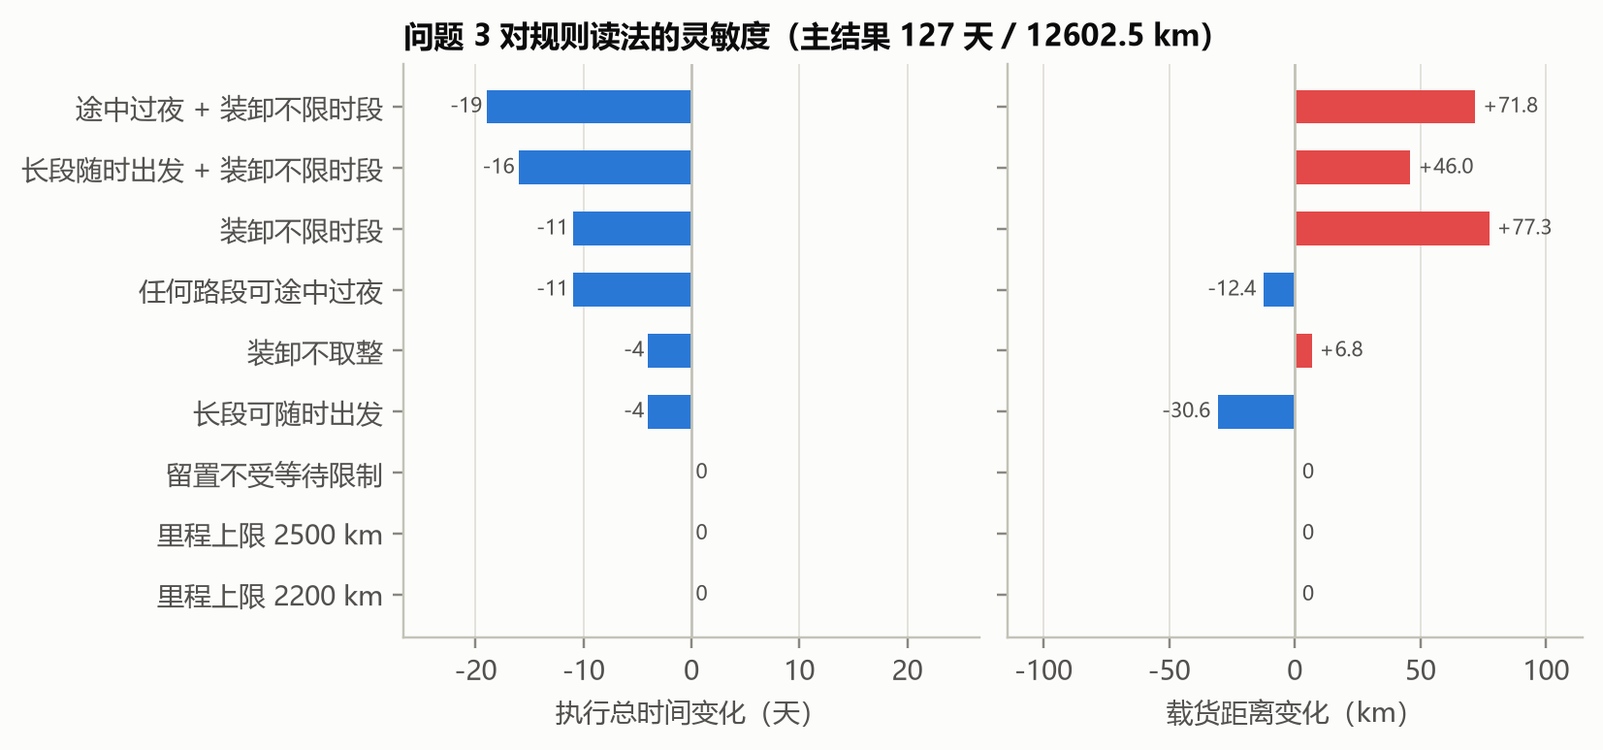
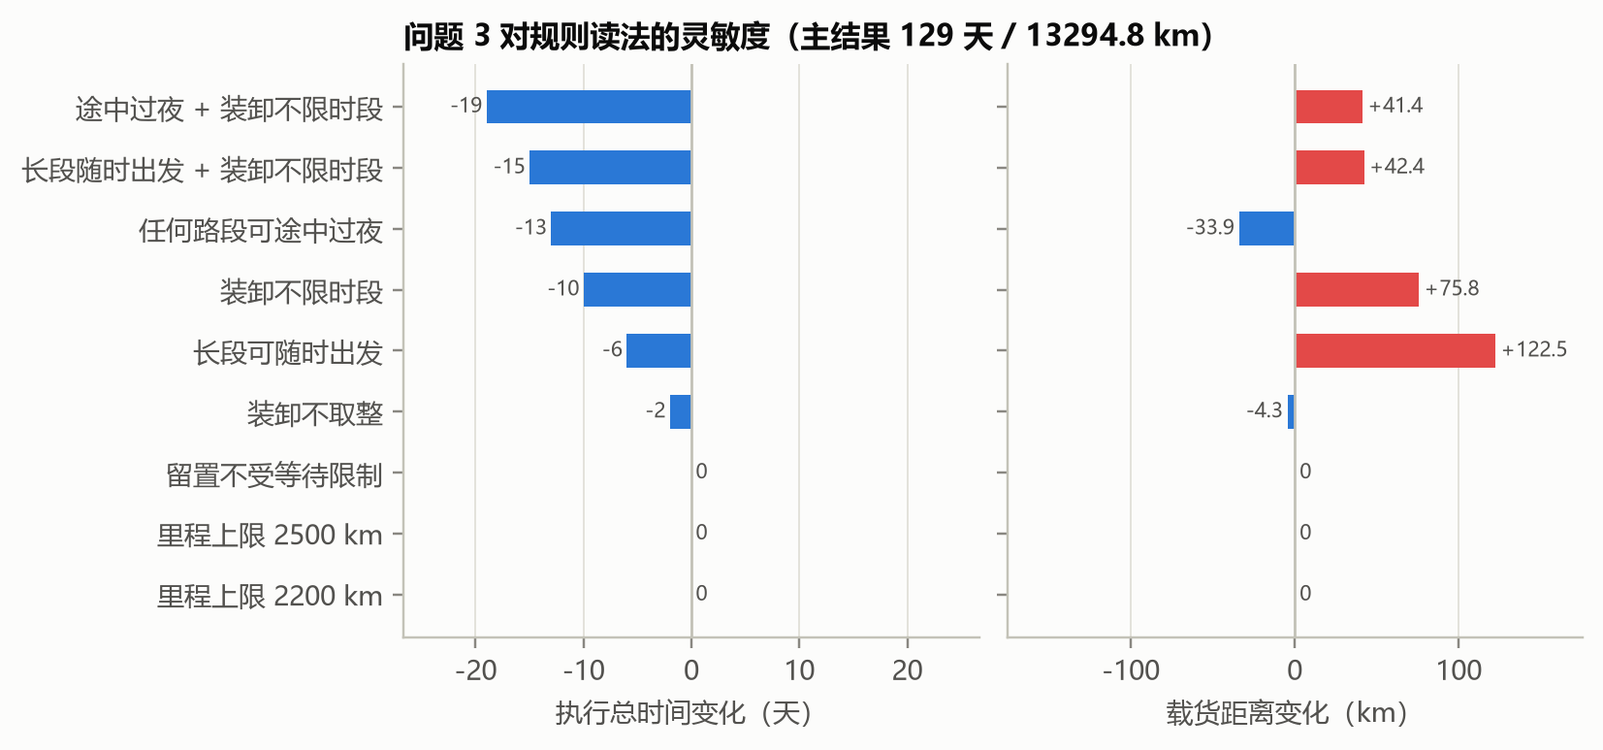
G6：正文按 spec v2.5 全面改写（摘要、第 1–3、6–8 章：129/130 天、直达规则、字面留置、问题 3 证书、灵敏度表 13 项）；修问题 4 汇总误用 R25 搜索终点的 bug 并重跑（结果不变）；数字表与图重生成

diff --git a/src/f_run_p4_reroute.py b/src/f_run_p4_reroute.py
@@ -66,11 +66,10 @@ def main():
     assert ev3["feasible"], "问题 3 台账与当前实例不一致，请先运行 f_run_p3.py"
     sc3, d3 = P.score(a3, ev3)
     sc4, d4 = P.score(a4, ev)
-    if (OUT / "summary.csv").exists() and not (OUT / "summary_R25.csv").exists():
-        shutil.copy(OUT / "summary.csv", OUT / "summary_R25.csv")
-    oldsum = pd.read_csv(OUT / "summary_R25.csv")
+    src_sum = OUT / "summary_search.csv" if (OUT / "summary_search.csv").exists() else OUT / "summary_R25.csv"
+    oldsum = pd.read_csv(src_sum)  # 改派搜索的终点（f_run_p4.py 输出；没有时用 R25 的）
     ends = oldsum[oldsum["方案"].str.startswith("搜索终点")].copy()
-    ends["方案"] = ends["方案"].str.replace("搜索终点：", "搜索终点（R25，剪枝候选）：", regex=False)
+    ends["方案"] = ends["方案"].str.replace("搜索终点：", "搜索终点（剪枝候选）：", regex=False)
     rows = []
     for nm, dd, s in (("问题3方案", d3, sc3), ("问题4方案（R25 指派，全候选重做路线）", d4, sc4)):
         rows.append(dict(方案=nm, 合成分=s, 调运总批次=dd["B"], 调运总车数=dd["N"], 出动总人数=dd["P"], 代领代交等效车数=dd["A"], 人员调动执行总时间=dd["tau"],

diff --git a/src/f_run_p4.py b/src/f_run_p4.py
@@ -90,6 +90,7 @@ def main():
                          批次仓库对=dd["pairs"], 车公里=dd["veh_km"], V=dd["V"]))
     sdf = pd.DataFrame(summ)
     sdf.to_csv(OUT / "summary.csv", index=False, encoding="utf-8-sig")
+    sdf.to_csv(OUT / "summary_search.csv", index=False, encoding="utf-8-sig")  # 搜索终点（供 f_run_p4_reroute.py 读取）
     print(sdf.T.to_string())
     # 台账与结果表
     dump3("main", inst, sol, ev)

diff --git a/paper/初稿/06_问题3.md b/paper/初稿/06_问题3.md
@@ -2,21 +2,21 @@
 
 ## 8.1 批内路线枚举
 
-固定问题 2 的指派后，每个批次要处理的货按“（装车地点，卸车地点）”分成若干货组。用深度优先搜索枚举该批次的全部合规路线。每一步选择下一站，在该站决定卸哪些货、装哪些货、是否把已装车的车留置在此。路线须满足：
+固定问题 2 的指派后，每个批次要处理的货按“（装车地点，卸车地点）”分成若干货组。用深度优先搜索枚举该批次的全部合规路线。每一步选择下一个**作业站**，在该站决定卸哪些货、装哪些货、是否把车上已装货的车全部留置在此。路线须满足：
 
 1. 从驻地空车出发、回到驻地；从自己队属仓库装车送往外面的上交货（含替别人代交的货）在到访任何外部仓库作业之前装车；接领的货最后才卸进自己的队属仓库（录 1.一.3；件 7 注 2）；
 2. 代领⑤先到 h_k 装代交货，再到 w_k 代领；
-3. 留置的车必须回到原站汇合，多站留置按相反顺序汇合（录 1.一.1(2)）；留置车从留置到车队回来重新开工之间整天闲置不超过 1 天（录 3.4“最多在目标货物仓库等待 1 天”）；
+3. 留置：在有装车作业的站，把**当前已装车的全部车辆**留下，其余空车继续前往后续仓库（件 7 注 7；正文“其他空载车辆继续前往后续货物仓库接领货物”）；留置的车必须回到原站汇合，多站留置按相反顺序汇合（录 1.一.1(2)）；留置车从留置到车队回来重新开工之间整天闲置不超过 1 天（录 3.4“最多在目标货物仓库等待 1 天”）；
 4. 行驶车队的等效装载量不超过它的车数（留置时扣减留下的车）；
-5. 只经过本批次自己的站点，同一站最多到访 2 次（假设 H10）；总里程 ≤ 2000 km。
+5. 相邻两站按附件 1 的**直达距离**行驶，路线中除汇合站和终点驻地外只出现有作业的站（件 7 注 2“依次填入经过的货物仓库直至回到驻地”），驻地只作起点和终点；同一站最多到访 2 次（假设 H10）；总里程 ≤ 2000 km。
 
-每条路线用时间引擎单独回放，得到占用天数、载货平均距离、里程。32 批共 535 条合规路线，每批 1–173 条，全部保留为候选：单独回放时被支配的路线（例如天数、载货距离相同而里程更长），在与其他批次排队时可能因到站顺序不同而错开冲突，不能事先删去。
+每条路线用时间引擎单独回放，得到占用天数、载货平均距离、里程。32 批共 247 条合规路线，每批 1–67 条，全部保留为候选：单独回放时被支配的路线（例如天数、载货距离相同而里程更长），在与其他批次排队时可能因到站顺序不同而错开冲突，不能事先删去。
 
-**命题 1（留置等价于后到）。** 对任一批次，若一条路线在站 w 装上货组 G 后把这些车留置，之后回到 w 汇合，那么把它改写为“第一次到 w 时不装 G，回到 w 时再装 G”，得到的新路线中每个货组的载货距离与原路线逐组相等。
+**命题 1（留置等价于后到）。** 对任一批次，若一条路线在站 w 把已装货的车留置，之后回到 w 汇合，那么把它改写为“第一次到 w 时不装这些货，回到 w 时再装”，得到的新路线中每个货组的载货距离与原路线逐组相等。
 
 *证明。* 留置期间 G 所在的车停在 w，不累计距离；汇合后 G 随车队从 w 走完剩余路线。改写后 G 在回到 w 时才装车，之后同样随车队走完相同的剩余路线。其他货组所在的行驶车队，走过的路径在两条路线中完全相同。因此每组的 $L_i$ 不变，$s_i$ 也不变，$\bar L$ 相等。∎
 
-命题说明留置不能降低载货距离；它的作用在时间上：第一次到站时就把货装完，回来时不必再排队装货。数值核对：32 批中有 13 批存在含留置的路线，每一批的“不含留置的最小载货距离”都正好等于“含留置的最小载货距离”。关闭留置后执行总时间多 1 天（表 8-2）。
+命题说明：**只要改写后的路线也合规**，留置就不能降低载货距离，它的作用只在时间上（第一次到站就装完，回来不必再排队）。但在“每段直达、不得途经”的规则下，改写往往不合规——第一次到 w 时若除了装 G 没有别的作业，改写后这一站就成了不作业的途经点。这时留置是唯一能让重货少跑路的办法：关闭留置后，执行总时间多 1 天，载货距离多 143.4 km（表 8-2）。
 
 ## 8.2 批间排程
 
@@ -36,7 +36,12 @@ $$Z=\sum_{i\in\{\tau,\bar L,\delta\}}\frac{f_i-l_i}{u_i-l_i},$$
 4. 多起点：开始偏离取到最小值的出发日组合只有 4 种（见 8.3），对每种固定出发日、随机取 30 组路线作起点，再做只换路线的坐标下降；
 5. 收尾：在全部（路线, 出发日）上再做一轮坐标下降，按（Z, V, 总里程）比较。
 
-**下界。** 任一批与其他批次一起回放时，到达每一站的时刻都不早于它单独回放的时刻（排队只会推迟；行驶、装卸规则对出发时刻单调），载货距离只由路线决定。因此各批孤立执行的最少天数之和、最小载货距离之和分别是 Σ τ 和 Σ L̄ 的下界（在本文的时间规则读法和“每站最多到访 2 次”的路线空间内成立；换一种时间规则读法，天数可以更少，见第十章）；把各批孤立的（天数, 载货距离, 偏离）代入 Z，再加上同单位同日 ≤ 2 批与代领④整批先后，求最小 Z 的整数规划，得到 Z 的下界。
+**下界与最优性证书。** 任一批与其他批次一起回放时，到达每一站的时刻都不早于它单独回放的时刻（排队只会推迟；行驶、装卸规则对出发时刻单调），载货距离只由路线决定。因此各批孤立执行的最少天数之和、最小载货距离之和分别是 Σ τ 和 Σ L̄ 的下界（在本文的时间规则读法和路线空间内成立；换一种时间规则读法，天数可以更少，见第十章）。
+
+在此基础上可以把“是否存在更好方案”变成有限枚举：
+1. 开始偏离每多 1 天，Z 增加 0.2；主结果 Z* 已定，偏离 ≥ 7 天的方案仅偏离一项就超过 Z*，不可能更好；
+2. 偏离 ≤ 6 天、且满足同单位同日 ≤ 2 批与代领④整批先后（用孤立天数作必要条件）的出发日组合，用整数规划的解池全部列出，共 236 种；
+3. 固定一种出发日组合后，每批的结束日被“孤立最少天数 + 允许的超额天数”框住，时间上不可能相遇、又不共用仓库和单位的批次互不影响，可以分成若干簇各自枚举；簇内只用孤立值之和剪枝（先到先服务下部分回放不能剪枝），每个组合做整簇回放与全部合规检查。
 
 ## 8.3 结果
 
@@ -44,10 +49,10 @@ $$Z=\sum_{i\in\{\tau,\bar L,\delta\}}\frac{f_i-l_i}{u_i-l_i},$$
 
 | 指标 | 结果 |
 |---|---:|
-| 人员调动执行总时间（天） | **126** |
+| 人员调动执行总时间（天） | **129** |
 | 实施开始时间偏离提报开始时间总天数（天） | **5** |
-| 调运总里程（公里） | **29719** |
-| 载货车辆总行驶距离（公里） | **12604.1** |
+| 调运总里程（公里） | **30729** |
+| 载货车辆总行驶距离（公里） | **13294.8** |
 
 <!-- P3.main.tau/delta/D/L -->
 
@@ -55,21 +60,21 @@ $$Z=\sum_{i\in\{\tau,\bar L,\delta\}}\frac{f_i-l_i}{u_i-l_i},$$
 
 | | 执行总时间（天） | 载货距离（km） | 开始偏离（天） |
 |---|---:|---:|---:|
-| 下界（各批孤立最优之和） | 124 | 12566.2 | 0（孤立）/ **5（考虑代领④，见下）** |
-| 规则基线 | 134 | 14412.9 | 5 |
-| **本文方法** | **126** | **12604.1** | **5** |
-| 相对基线 | −6.0% | −12.6% | 持平 |
-| 距下界 | +2（1.6%） | +37.8（0.30%） | 达到下界 |
+| 下界（各批孤立最优之和） | 126 | 13257.8 | 0（孤立）/ **5（考虑代领④，见下）** |
+| 规则基线 | 134 | 14445.7 | 5 |
+| **本文方法** | **129** | **13294.8** | **5** |
+| 相对基线 | −3.7% | −8.0% | 持平 |
+| 距下界 | +3（2.4%） | +37.0（0.28%） | 达到下界 |
 
 <!-- P3.lb.* P3.base.* P3.main.* -->
 
-32 批中 26 批同时达到了各自的孤立最少天数和最小载货距离。剩下的差距有三个来源：批 7 多用 1 天换来载货距离少 683.7 km（这是折衷，不是损失）；批 27 在 WF 排队，多 1 天；载货距离共多 37.8 km，其中批 13 为满足代领④的先后走 6 天的路线，多 33.5 km；批 1、30、32 为少用天数选了载货距离略长的路线，共多 4.3 km。
+32 批中 25 批同时达到了各自的孤立最少天数和最小载货距离。距下界的 3 天来自：批 7 多用 1 天换来载货距离少 623.7 km（折衷，不是损失）；批 16 在自己的队属仓库 WP、批 27 在 WF 排队（所有仓库先到先服务），各多 1 天。载货距离共多 37.0 km，其中批 13 为满足代领④的先后改走 6 天的路线，多 30.1 km；批 1、30、32 为少用天数选了载货距离略长的路线，共多 6.9 km。
 
-合成目标的下界为 Z ≥ 1.120，本文方法 Z = 1.220，相差 0.1，约合 1 天执行总时间。进一步按开始偏离分情形枚举可知：比本文更好的方案若存在，开始偏离必须恰为 5 天、出发日只能是 4 种组合之一，且执行总时间 ≤ 125 天，或为 126 天而载货距离更短。剩余情形每种约 5.8 亿个路线组合，没有穷举完，所以本文不声称最优。【单方结果，待第二方复核】
+**本文方案是最优的。** 按上面的证书，偏离 5 天的出发日组合有 4 种，各枚举约 90 万个路线组合；偏离 6 天的 232 种全部被孤立值之和排除。没有一个可行方案的合成目标低于本文方案（Z* = 1.406）；有 2 种出发日组合能达到同一 Z*，其 V 与本文方案相同，【并列核查：总里程是否有更短的，待补】。这一结论在以下前提下成立：同一站最多到访 2 次（H10）；同一批次中装卸地点相同的货一起处理；单调性与分簇独立性（后者经 5000 组随机方案检验，分簇回放与整体回放的逐站时刻完全一致）。【单方结果，待第二方复核】
 
-**开始偏离 5 天是下界。** 唯一一笔不可避免的偏离来自代领④：U6 的批 13（提报 4 月 14 日起）替 U4 代领一块货，暂存在 WP，由 U4 的批 25（提报 4 月 15–18 日）领回。批 13 要到 WA、WG 两个仓库，装卸至少 58 台次（出发时在 WP 装送交货 ≥ 10、WA 卸装 ≥ 28、WG 装 ≥ 1、返程在 WP 卸 ≥ 19）：最短闭合路线 1067 km，至少行驶 17.07 小时；装卸至少 23.2 小时；合计 40.27 小时，超过 5 个工作日的 40 小时，所以至少占 6 个自然日。设两批出发日为 x、y，整批先后要求 y − x ≥ 6，而两个提报开始日只差 1 天，故 $|x-14|+|y-15|\ge 5$。本文方案取 x = 10、y = 16，正好取等。同一论证说明：**在问题 2 的指派下，如果所有批次都不早于提报开始日出发，问题 3 没有可行方案**（问题 4 改变了这笔代领④的去向，偏离可以为 0，见 9.3 节）（批 13 最早 4 月 19 日回驻地，批 25 最晚 4 月 18 日必须出发）。这一论证由第二方独立给出。
+**开始偏离 5 天是下界。** 唯一一笔不可避免的偏离来自代领④：U6 的批 13（提报 4 月 14 日起）替 U4 代领一块货，暂存在 WP，由 U4 的批 25（提报 4 月 15–18 日）领回。批 13 要到 WA、WG 两个仓库，装卸至少 58 台次（出发时在 WP 装送交货 ≥ 10、WA 卸装 ≥ 28、WG 装 ≥ 1、返程在 WP 卸 ≥ 19）：最短闭合路线 1182 km，至少行驶 18.91 小时；装卸至少 23.2 小时；合计 42.11 小时，超过 5 个工作日的 40 小时，所以至少占 6 个自然日。设两批出发日为 x、y，整批先后要求 y − x ≥ 6，而两个提报开始日只差 1 天，故 $|x-14|+|y-15|\ge 5$。本文方案取 x = 10、y = 16，正好取等。同一论证说明：**在问题 2 的指派下，如果所有批次都不早于提报开始日出发，问题 3 没有可行方案**（问题 4 改变了这笔代领④的去向，偏离可以为 0，见 9.3 节）（批 13 最早 4 月 19 日回驻地，批 25 最晚 4 月 18 日必须出发）。这一论证由第二方独立给出。
 
-**路线特征。** 18 个批次的路线重复经过了本批次的站点（途经），1 个批次使用了留置。到达外部仓库共 62 次，批次-仓库对 51 个。
+**路线特征。** 没有途经；2 个批次使用了留置（批 8、46）。到达外部仓库共 61 次，批次-仓库对 51 个。
 
 ![图 8-1 问题 3 甘特图](../figs/图8-1_问题3甘特图.png)
 
@@ -85,26 +90,25 @@ $$Z=\sum_{i\in\{\tau,\bar L,\delta\}}\frac{f_i-l_i}{u_i-l_i},$$
 
 | 方案 | 执行总时间 | 载货距离 | 开始偏离 |
 |---|---:|---:|---:|
-| 本文方法 | 127 | 12602.5 | 5 |
-| 关闭留置 | 128 | 12604.1 | 5 |
-| 关闭途经（每段只走直达） | 130 | 13293.2 | 5 |
-| 留置、途经都关闭 | 133 | 13294.8 | 5 |
+| 本文方法 | 129 | 13294.8 | 5 |
+| 关闭留置 | 130 | 13438.2 | 5 |
+| 允许途经（借道驻地等，见第十章） | 126 | 12604.1 | 5 |
 | 不允许提前出发 | 不可行 | — | — |
 
 <!-- X.ablation.* -->
 
-途经贡献最大：关闭后载货距离多 690.7 km（5.5%）、天数多 3 天，原因是距离矩阵不满足三角不等式。留置只影响天数（多 1 天），与命题 1 一致。提前出发是必需的。
+留置在直达规则下同时节省 1 天和 143.4 km 载货距离（见命题 1 后的说明）。若允许途经（借道驻地），执行总时间可少 3 天、载货距离少 690.7 km，原因是距离矩阵在驻地附近不满足三角不等式（如 WP→WA 直达 550 km，经 U6 为 15 + 505 km）；本文按件 7 注 2 不采用，作为对照报出。提前出发是必需的。
 
 **表 8-3 合成方式**
 
 | 合成方式 | 执行总时间 | 载货距离 | 开始偏离 |
 |---|---:|---:|---:|
-| 等权和（主结果） | 127 | 12602.5 | 5 |
-| 先比最差的一项 | 130 | 12602.5 | 5 |
-| 权重 0.4 / 0.4 / 0.2 | 126 | 12602.5 | 8 |
+| 等权和（主结果） | 129 | 13294.8 | 5 |
+| 先比最差的一项 | 129 | 13294.8 | 5 |
+| 权重 0.4 / 0.4 / 0.2 | 127 | 13294.8 | 7 |
 
 载货距离对合成方式不敏感；天数与偏离之间存在此消彼长。
 
 ## 8.5 小结
 
-问题 3 在固定指派下把执行总时间压到 126 天、载货距离压到 12604.1 km，距各自下界分别为 1.6% 和 0.30%（下界在“每站最多到访 2 次”的路线空间内成立）；开始偏离 5 天已达到下界。本文不把 126 天称为最优：合成目标距下界 0.1（约 1 天），且已把可能更好的方案限定在 4 种出发日组合之内。
+问题 3 在固定指派下把执行总时间压到 129 天、载货距离压到 13294.8 km，距各自的孤立下界 3 天和 37.0 km；开始偏离 5 天已达到下界。通过按偏离分情形、固定出发日后分簇穷举，证明了该方案在本文的路线空间内按合成目标最优。

diff --git a/paper/初稿/08_灵敏度与评价.md b/paper/初稿/08_灵敏度与评价.md
@@ -1,26 +1,29 @@
 # 十、灵敏度分析
 
-对 11 处有解释空间的规则，各换一种读法重算，其余不变。问题 3 的数字都在问题 2 的同一指派下用同一算法得到。
+对 13 处有解释空间的规则，各换一种读法重算，其余不变。问题 3 的数字都在问题 2 的同一指派下用同一算法得到。
 
 **表 10-1 口径灵敏度**
 
 | # | 规则（主读法 → 备选读法） | 影响 |
 |---|---|---|
 | 1 | U9 条款：凡能交给 U6 的都交 → U9 保留的块不存在交给 U6 的可能即可 | 问题 2：32 → 31 批 |
-| 2 | 问题 2 不看时间 → 要求代办双方的提报时段相容 | 问题 2：32 → 37 批，代办量 10.868 → 6.414；该指派下问题 3 为 146 天 / 14534.4 km / 偏离 0 |
-| 3 | 保障车 T ≥ 21 取 2 台 → T ≥ 26 取 2 台 | 问题 2：474 → 471 辆、1212 → 1206 人；问题 4：473 → 470 辆、1210 → 1204 人 |
+| 2 | 问题 2 不看时间 → 要求代办双方的提报时段相容 | 问题 2：32 → 37 批，代办量 10.868 → 6.414；该指派下问题 3 为 148 天 / 15228.8 km / 偏离 0 |
+| 3 | 保障车 T ≥ 21 取 2 台 → T ≥ 26 取 2 台 | 问题 2：474 → 471 辆、1212 → 1206 人；问题 4：474 → 471 辆、1214 → 1208 人 |
 | 4 | 单批里程 ≤ 2000 km → ≤ 2200 / 2500 km | 不变（主方案里程约束不起作用） |
 | 5 | 150 km 阈值 → 149 km | 问题 2 不变 |
-| 6 | > 500 km 的路段只在 8:00 出发 → 随时出发、途中过夜 | 问题 3：123 天 / 12571.9 km / 偏离 6 |
-| 7 | 当天到不了下一站就次日出发 → 任何路段都可随时出发、途中过夜 | 问题 3：116 天 / 12590.1 km / 偏离 8 |
-| 8 | 装卸只在 8:00–16:00 → 可连续做到夜间（录 3.9“不考虑仓库的工作时段”） | 问题 3：116 天 / 12679.9 km / 偏离 6 |
-| 9 | 装、卸分别向上取整 → 不取整 | 问题 3：123 天 / 12609.3 km / 偏离 6 |
+| 6 | > 500 km 的路段只在 8:00 出发 → 随时出发、途中过夜 | 问题 3：123 天 / 13417.3 km / 偏离 5 |
+| 7 | 当天到不了下一站就次日出发 → 任何路段都可随时出发、途中过夜 | 问题 3：116 天 / 13260.9 km / 偏离 8 |
+| 8 | 装卸只在 8:00–16:00 → 可连续做到夜间（录 3.9“不考虑仓库的工作时段”） | 问题 3：119 天 / 13370.6 km / 偏离 5 |
+| 9 | 装、卸分别向上取整 → 不取整 | 问题 3：127 天 / 13290.5 km / 偏离 5 |
 | 10 | 留置的车也受“等待 ≤ 1 天”限制 → 不受限 | 不变 |
-| 11 | 可重复经过本批次站点 → 每个外部仓库只到访一次 | 问题 2 的指派不可执行：批 18、25 无合规路线。批 18 用了代领⑤，要先在 h_k 装代交货、代领后再回 h_k 卸货；批 25 在 WP 先装代交货去 WE（代交③），回来后在 WP 卸代领货（代领②）。两批都必须两次到访同一外部仓库 |
+| 11 | 同一作业站可到访 2 次 → 每个外部仓库只到访一次 | 问题 2 的指派不可执行：批 18、25 无合规路线。批 18 用了代领⑤，要先在 h_k 装代交货、代领后再回 h_k 卸货；批 25 在 WP 先装代交货去 WE（代交③），回来后在 WP 卸代领货（代领②）。两批都必须两次到访同一外部仓库 |
 
-<!-- X.rules.* ；sens.csv -->
+| 12 | 每段按直达距离、不得途经 → 可借道驻地等本批次站点（裁决 X1 的反面） | 问题 3：126 天 / 12604.1 km / 偏离 5 |
+| 13 | 代领代交只需满足所列情形之一 → 每笔另须“就近”（裁决 D2 的反面） | 问题 2：32 → 34 批，474 → 477 辆、1212 → 1224 人 |
 
-另外两种组合：读法 6 + 8 为 111 天 / 12648.6 km，读法 7 + 8 为 108 天 / 12674.3 km。代领③禁用（假设 H11 的反面）时问题 2 为 33 批。
+<!-- X.rules.* ；sens.csv；p3_ablation.csv（借道）；X.d2b.* -->
+
+另外两种组合：读法 6 + 8 为 114 天 / 13337.1 km，读法 7 + 8 为 110 天 / 13336.2 km。代领③禁用（假设 H11 的反面）时问题 2 为 33 批。
 
 ![图 10-1 灵敏度](../figs/图10-1_灵敏度.png)
 
@@ -28,10 +31,10 @@
 
 **结论。**
 
-1. **载货距离对时间规则稳健**：各种时间读法下在 12572–12680 km 之间，与主结果相差不到 0.9%。
-2. **执行总时间不稳健**：108–127 天，取决于“当天到不了下一站能否先走一段”和“装卸能否做到夜间”。本文按录 3.2、3.4 的字面（装卸计入每天 8 小时；到不了就次日机动）取 127 天。
+1. **载货距离对时间规则稳健**：各种时间读法下在 13261–13417 km 之间，与主结果相差不到 1%。
+2. **执行总时间不稳健**：110–129 天，取决于“当天到不了下一站能否先走一段”和“装卸能否做到夜间”。本文按录 3.2、3.4 的字面（装卸计入每天 8 小时；到不了就次日机动）取 129 天。是否允许借道驻地也影响 3 天、690.7 km（读法 12）。
 3. **批次数只对 U9 条款、代领④和时段相容的读法敏感**，各影响 1–5 批。
-4. **问题 4 优于问题 3 的结论大体稳健**：在“任何路段可途中过夜”的读法下，问题 4 为 113 天 / 12617.4 km / 偏离 4，问题 3 为 116 天 / 12590.1 km / 偏离 8，天数、偏离、失衡度、仓库对仍更好，但载货距离反而多 27 km。
+4. **问题 4 与问题 3 的取舍随读法变化**：在“任何路段可途中过夜”的读法下，问题 4 为 114 天 / 13295.7 km / 偏离 4 / 仓库对 44，问题 3 为 116 天 / 13260.9 km / 偏离 8 / 仓库对 51，问题 4 的天数、偏离、失衡度、仓库对更好，载货距离多 34.8 km；主读法下则是天数多 1 天、载货距离少 383.7 km。
 
 # 十一、模型检验与评价
 
@@ -43,21 +46,21 @@
 | 解析守恒 | 附件 2、3 货物总量相等（5,971,074），逐货号相等；附件 4 总量 10,727,184 |
 | 时间引擎 | 5 个手算例与第二方算例全部一致 |
 | 约束残差 | 附件 6、7、8 在独立检查器下违例 0 条，附表 2–4 的指标逐项复现 |
-| 检查器自检 | 6 种篡改（时刻、货量、整批推迟、代领改自领、无关节点、留置超时）全部被检出 |
-| 第二方复算 | 问题 2：独立的 CP-SAT 模型得到相同的四级目标与 90 块指派；问题 3、4：第二方独立实现逐站回放，582 个到离时刻全部吻合，S1–S16、R1–R8 逐条通过，并独立证明了问题 3 开始偏离的下界；问题 1：第二方独立复现了 16 笔转移的情形、越窗批数、回放天数和表列天数不足的批数；补充实验中“禁用代领③为 33 批”“不允许提前出发不可行”也由第二方独立确认 |
-| 命题核对 | 命题 1 在 13 个有留置路线的批次上逐一成立 |
+| 检查器自检 | 10 种篡改（时刻、货量、整批推迟、代领改自领、无关节点、留置超时、删去暂存备注、领回量不符、代交改记他人、部分留置）全部按预期检出或不误报 |
+| 第二方复算 | 问题 2：独立的 CP-SAT 模型得到相同的四级目标与 90 块指派；问题 3、4：第二方独立实现逐站回放，对规则修订前的版本（允许途经）580 个到离时刻全部吻合、S1–S16 与 R1–R8 逐条通过，并独立证明了问题 3 开始偏离的下界【现行版本待第二方复核】；问题 1：第二方独立复现了 16 笔转移的情形、越窗批数、回放天数和表列天数不足的批数；补充实验中“禁用代领③为 33 批”“不允许提前出发不可行”也由第二方独立确认 |
+| 最优性证书 | 问题 3：偏离 ≤ 6 天的 236 种出发日组合全部枚举（偏离 5 天的 4 种各约 90 万个路线组合），无合成目标更低的可行方案 |
 
 ## 11.2 优点
 
 1. 三问共用同一套判定函数和时间引擎，指标口径一致，四问的数字可以直接比较。
-2. 问题 2 精确求解并由第二方独立确认；问题 3 给出下界，开始偏离达到下界，执行总时间和载货距离距下界分别为 1.6% 和 0.30%，并把可能更好的方案限定在 4 种出发日组合之内（未证明最优）。
+2. 问题 2 精确求解并由第二方独立确认；问题 3 用“按偏离分情形 + 固定出发日分簇穷举”证明了按合成目标最优（在本文的路线空间内）。
 3. 规则先落成可执行的判定，再由不调用求解代码的检查器逐条复核，杜绝“模型目标值好看、方案不可执行”。
 4. 对 11 处口径给出了备选读法下的结果，结论的适用范围清楚。
 
 ## 11.3 局限
 
-1. 问题 3、4 是局部搜索的结果，不是证明最优；问题 4 的终点对随机顺序敏感。
-2. 执行总时间依赖对录 3.4 的读法，其他读法下可少至 108 天。
+1. 问题 4 是局部搜索的结果，不是证明最优，终点对随机顺序敏感；问题 3 的最优性依赖“同一站最多到访 2 次”“同一批装卸地点相同的货一起处理”两条路线空间假设。
+2. 执行总时间依赖对录 3.4 的读法，其他读法下可少至 110 天。
 3. 代领③中货主自取的行程不计入任何批次；问题 4 用得更多，自取 5.013 等效车、往返 772 km，这部分成本在附表中看不到。
 4. 路线枚举限制同一站最多到访 2 次；更多次的到访没有考虑。
 

diff --git a/paper/初稿/00_摘要.md b/paper/初稿/00_摘要.md
@@ -13,10 +13,10 @@
 
 **针对问题 2**，建立**需求块指派的四级字典序整数规划**（U9 优先交 U6、批次最少、代领代交量最少、提报时段冲突最少）。**Y2 的 46 个批次最少可统筹为 32 批**（Gurobi，gap = 0；第二方独立模型得到相同的四级目标值），调运总车数 474 辆、出动总人数 1212 人、代领代交货物总量 10.868 等效车。禁用“暂存后由货主领回”时最少为 33 批；按 U9 条款的字面读法为 31 批。
 
-**针对问题 3**，建立**批内路线枚举与批间事件回放排程模型**：对每批枚举满足流程规则的全部路线（含重复到访与留置），以坐标下降、成对邻域和多起点搜索选择路线与出发日。**人员调动执行总时间 126 天，开始偏离 5 天，调运总里程 29719 km，载货车辆总行驶距离 12604.1 km**；较“最短里程路线、按提报日出发”的规则基线，执行总时间减少 6.0%、载货距离减少 12.6%，距各自的下界 2 天和 37.8 km。我们证明了**开始偏离 5 天是该指派下的下界**，且在该指派下不提前出发则无可行方案；证明了“留置等待在载货距离上等价于把该仓库排到后面”，留置的收益只在时间上（关闭后多 1 天）。
+**针对问题 3**，建立**批内路线枚举与批间事件回放排程模型**：对每批枚举满足流程规则的全部路线（每段按直达距离，含重复到访与留置），以坐标下降、成对邻域和多起点搜索选择路线与出发日。**人员调动执行总时间 129 天，开始偏离 5 天，调运总里程 30729 km，载货车辆总行驶距离 13294.8 km**；较“最短里程路线、按提报日出发”的规则基线，执行总时间减少 3.7%、载货距离减少 8.0%。我们证明了**开始偏离 5 天是该指派下的下界**，且在该指派下不提前出发则无可行方案；进而按开始偏离分情形、固定出发日后分簇穷举（236 种出发日组合），**证明了该方案按合成目标最优**。留置在直达规则下同时节省 1 天和 143.4 km 载货距离。
 
-**针对问题 4**，建立**指派与排程联合的单块改派邻域搜索模型**，定义失衡度 E（各单位帮出量与受助量之差的绝对值之和与两倍代领代交总量之比）。在与问题 3 相同的 32 批下，**批次-仓库对由 51 降至 46，失衡度由 0.651 降至 0.408，载货距离减少 133.2 km，开始偏离由 5 天降为 0**，代价是执行总时间多 1 天（127 天）、代领代交量由 10.868 增至 15.515 等效车，被代方提报时段与实际出发日不相容的代领代交对由 11 对增至 17 对<!-- P4.p3.V P4.main.V -->。多保留 1 批或 2 批只能进一步降低失衡度，其余指标全部变差。
+**针对问题 4**，建立**指派与排程联合的单块改派邻域搜索模型**，定义失衡度 E（各单位帮出量与受助量之差的绝对值之和与两倍代领代交总量之比）。在与问题 3 相同的 32 批下，**批次-仓库对由 51 降至 48，失衡度由 0.651 降至 0.392，载货距离减少 383.7 km，开始偏离由 5 天降为 0**，代价是执行总时间多 1 天（130 天）、代领代交量由 10.868 增至 21.179 等效车，被代方提报时段与实际出发日不相容的代领代交对由 11 对增至 20 对<!-- P4.p3.V P4.main.V -->。保留 34 批可把失衡度进一步降到 0.266，其余指标变差。
 
-全部方案经独立检查器核验约束违例为 0，主要数字经第二方独立复算。对 11 处有解释空间的规则给出了另一种读法下的结果：载货距离对时间规则的读法稳健（相差 < 0.9%），执行总时间不稳健（108–127 天）。
+全部方案经独立检查器核验约束违例为 0，主要数字经第二方独立复算。对 13 处有解释空间的规则给出了另一种读法下的结果：载货距离对时间规则的读法稳健（相差 < 1%），执行总时间不稳健（110–129 天）；若允许借道驻地，问题 3 可少 3 天。
 
 **关键词**：需求块；字典序整数规划；路线枚举；事件回放；邻域搜索；失衡度

diff --git a/paper/初稿/03_共用模块.md b/paper/初稿/03_共用模块.md
@@ -53,8 +53,8 @@ $$\bar L_\beta=\frac{\sum_i s_i L_i}{\sum_i s_i}.$$
 检查器只读结果 xlsx 和原始附件 1、4、5，不调用任何求解代码，独立实现了行驶、装卸、排队、容量规则，逐条核验：
 
 - **时刻与资源**：每站到达和离开时刻（容差 1 分钟）、先到先服务、仓库日容量、等待 ≤ 1 天、时间窗、同单位同日批次数；
-- **装载与流程**：行驶车队装载量、运力与“增车 ≤ 3、≤ 30 台”、2000 km、目标仓库数；送交货先装、接领货最后入库，留置逆序汇合，不经过无关节点；
+- **装载与流程**：行驶车队装载量、运力与“增车 ≤ 3、≤ 30 台”、2000 km、目标仓库数；送交货先装、接领货最后入库，留置时全部已装车辆留下、逆序汇合，不途经不作业的站；
 - **代领代交**：专程到访的 150 km、代领⑤先装代交货后代领、代领④整批先后、U9 只由 U6 代办；
 - **守恒**：每个（货主, 货物）在各节点的净流量与附件 4 一致。
 
-检查器还重算附表 2–4 的全部指标，与求解端逐项比对。对问题 3 的结果表做篡改自检（到达时刻 +10 分钟、货量 +1、整批推迟 30 天、代领改自领、途经站改成无关节点、留置汇合推迟到第三天 16:00），当前检查器全部检出（`tests/f_test_checker.py`）。
+检查器还重算附表 2–4 的全部指标，与求解端逐项比对。对问题 3 的结果表做 10 种篡改自检（到达时刻 +10 分钟、货量 +1、整批推迟 30 天、代领改自领、站点改成无关节点、留置汇合推迟到第三天 16:00、删去暂存备注、领回量不符、代交改记他人、部分留置），当前检查器全部按预期检出或不误报（`tests/f_test_checker.py`）。

diff --git a/paper/初稿/02_假设与符号.md b/paper/初稿/02_假设与符号.md
@@ -13,7 +13,7 @@
 | H7★ | 一段路当天到不了下一站就次日 8:00 出发；超过 500 km 的路段只在 8:00 出发、途中过夜 | 录 3.4“剩余工作时间无法到达下一任务地点……则次日进行机动”，并且实际中宜在定点场所休息；超过 500 km 的路段当天必然到不了，按同一句字面次日 8:00 出发 |
 | H8★ | 一站内装、卸分别按等效车数向上取整后相加计时 | 原文“非满载车辆按满载车辆计算”，未规定取整层级 |
 | H9★ | 留置的车也受“最多等待 1 天”限制 | 原文称“留置等待” |
-| H10★ | 路线可以重复经过本批次自己的站点，不经过无关节点 | 距离取直达值且不满足三角不等式；代领⑤原文就要求“增加访问 Uy 的队属货物仓库” |
+| H10★ | 路线由作业站依次组成，相邻两站取直达距离，不途经不作业的站；同一作业站至多到访 2 次 | 件 7 注 2“依次填入经过的货物仓库直至回到驻地”；代领⑤原文就要求“增加访问 Uy 的队属货物仓库”，故须允许重复到访 |
 | H11 | 代领③中货主自取的行程不计入任何批次 | 原文只写“可进行代领”，未说明货主如何取回；第九章报告自取的货量与往返里程 |
 | H12 | 代领④的“之后”取整批先后：货主批次的出发日晚于暂存批次回到驻地的日期 | “实施时间”在术语 11 中定义为时间段；按最严格的读法排出的方案在较宽读法下同样合规 |
 | H13 | 执行单位在自己可用的队属仓库作业不占该仓库的日容量，但仍按先到先服务排队 | 日容量（录 3.9）针对“处理接领（交）货物的需求单位”；服务规则（录 3.10）对一切货物仓库适用 |

diff --git a/paper/初稿/01_问题重述与分析.md b/paper/初稿/01_问题重述与分析.md
@@ -14,7 +14,7 @@
 | 附件 5 | 各单位车型装载单品种货物的最大数量 | 245 种货物 |
 | 附表 1 | 各单位可使用的队属仓库 | 7 个队属仓库中 4 个由多个单位共用 |
 
-距离矩阵不满足三角不等式：例如 WE 到 WO 直达 765 km，而经 WF 中转只有 453 km。这一事实决定了路线中“重复经过本批次站点”可能更短（第八章）。
+距离矩阵不满足三角不等式：例如 WE 到 WO 直达 765 km，而经 WF 中转只有 453 km。若允许借道中转，路线可以更短；本文按件 7 注 2 每段取直达距离、不借道，借道作为对照（第八、十章）。
 
 ## 1.3 要解决的问题
 
